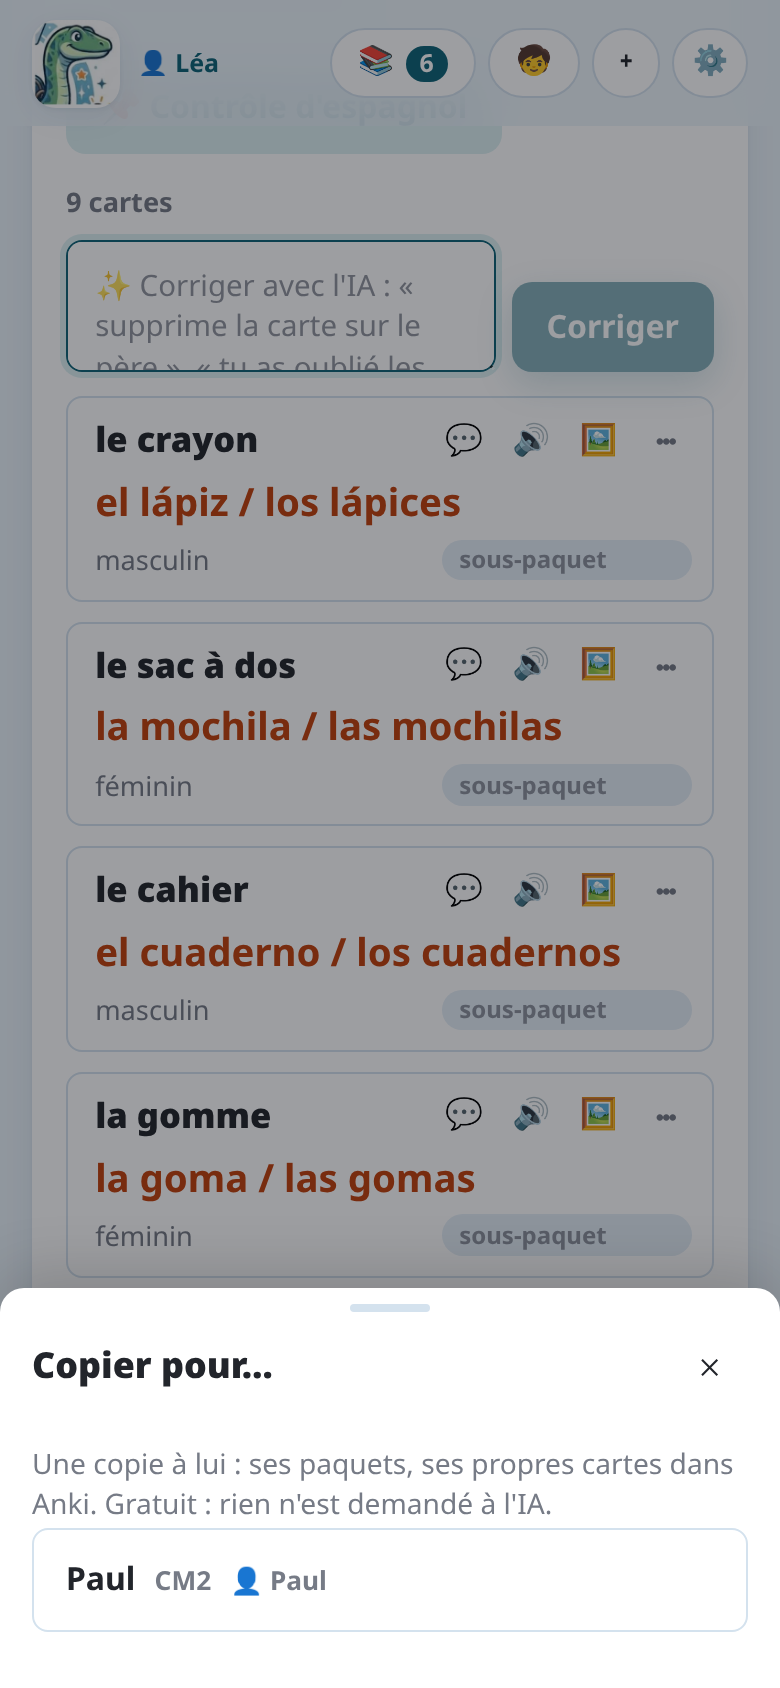
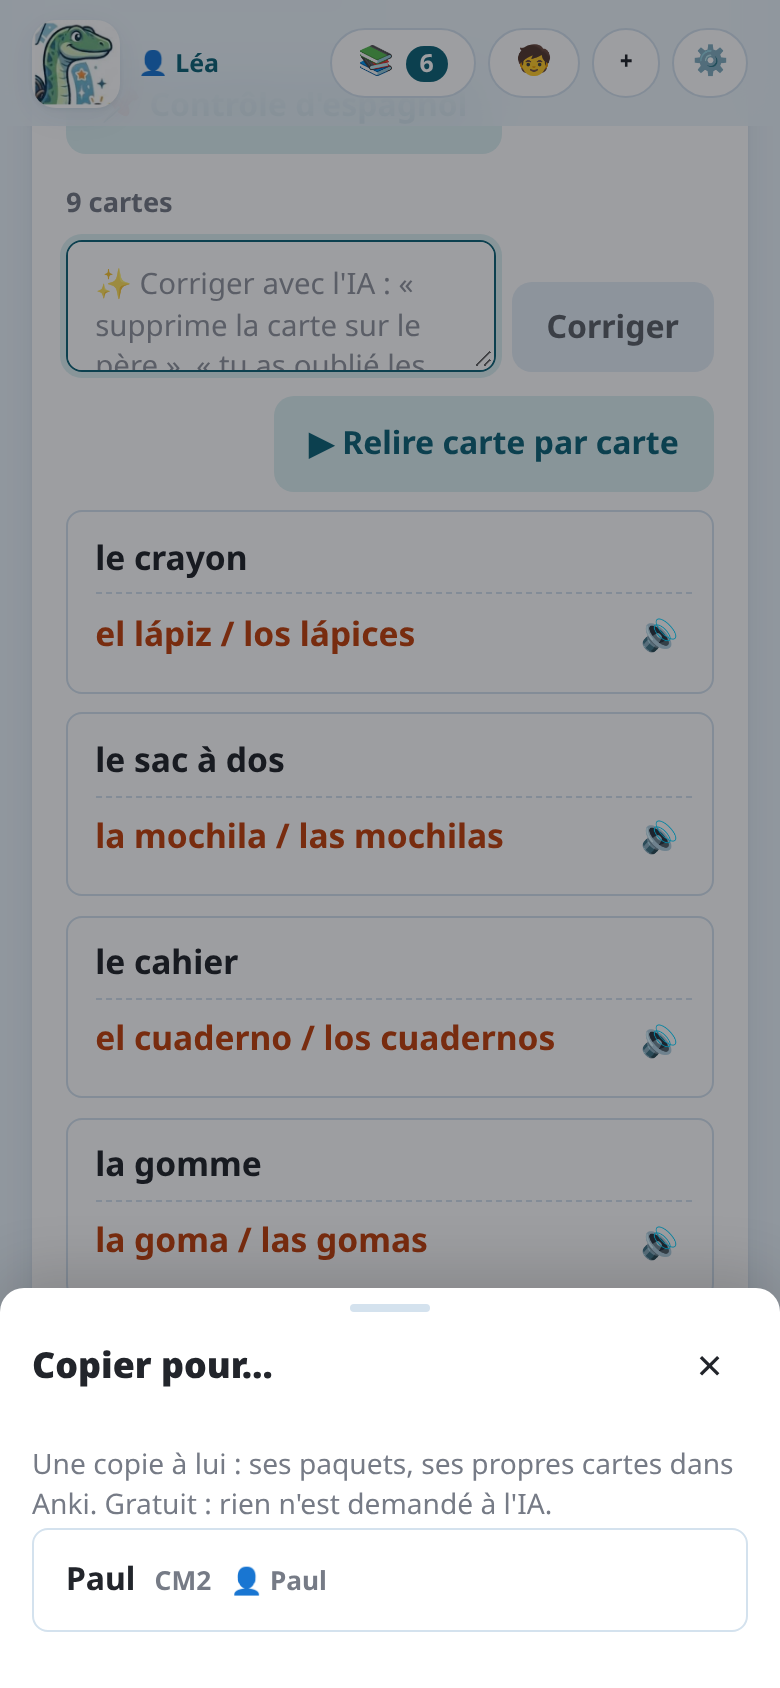
📝 French docs: the cards as they are reviewed now (#712–#746) (#748)
The French documentation, brought up to what the page does since #712.
The other languages follow once this one is read.

## Changes

- **`review.md`** (Relire les cartes), the most behind:
- « Le paquet et les cartes » split in **La liste** (compact, 🔊 alone, a
touch opens), **Une carte ouverte** (its deck at the top, #745; RECTO
then VERSO under a line, #736; 🔊 by the answer, #735; « ✨ Corriger avec
l'IA » with « Corriger » at the bottom, #720; a swipe from anywhere,
#719; the lesson's end « ✓ 12 cartes relues », #716; « + sous-paquet »,
#729) and **Ajouter une carte** (＋ after a card or at the end; written
by the AI: « Que doit demander cette carte ? » → « Écrire », no keyboard
on the phone, 🎤, #727).
- **Corriger avec l'IA**: « ↩ Annuler », « 🎯 Refaire avec soin », « ✓
Garder » (#731), its counts (#734); one card corrected from the card
open; dictation sent with « Corriger » directly (#732).
- **`card-types.mdx`**: « 🔍 Vérifier l'image » (#740), « 🔍 Vérifier la
figure » under the figure (#725).
- **`ai-services.md`**: « 🔍 Vérifier la figure », no longer « la loupe
».
- **`lessons.mdx`**, **`tests.mdx`**, **`several-children.mdx`**: « Mes
leçons » full height, one line of tools (search, « 👤 Jules » / « 👥 Tous
», 📤), the tests folded in « 📝 2 contrôles à préparer » (#723).
- **`android-app.md`**: 🎤 also for a new card, and « Corriger », «
Écrire » or « Générer » touched directly (#732).

Every label is the interface's own (`static/i18n/fr.json`).

## Checks
[…]

diff --git a/tools/docs_screenshots.py b/tools/docs_screenshots.py
@@ -158,10 +158,12 @@ BOOKLET = {
 
 
 def booklet_pdf(b, lang: str, path: Path) -> None:
+    """A revision booklet of more pages than a lesson has room for (30): the page picker opens
+    only then. Its topics over and over, numbered on."""
     title, topics = BOOKLET[lang]
     pages = "".join(
         f"<section><h1>{title}</h1><h2>{n}. {topic}</h2>" + "<p></p>" * 12 + "</section>"
-        for n, topic in enumerate(topics, start=1)
+        for n, topic in enumerate(itertools.islice(itertools.cycle(topics), 36), start=1)
     )
     page = b.new_page()
     page.set_content(
@@ -504,6 +506,11 @@ def shoot(lang: str) -> None:
             scroll_to(page, "section.review", 10)
             page.evaluate("window.scrollBy(0, 230)")
             shot(name)
+            if key == "geometry":  # a card open: its deck, Recto and Verso, its figure checked on demand
+                page.evaluate(f"{APP}.openCard({APP}.cards.find((c) => c.figure && c.picture) ?? {APP}.cards[0])")
+                time.sleep(0.8)
+                shot("card-open")
+                page.evaluate(f"{APP}.doneEditing()")
             if key == "pictures":  # a card's picture page (its picture touched in the card open)
                 page.evaluate(f"{APP}.openCard({APP}.cards[0]); {APP}.openPicture({APP}.cards[0])")
                 time.sleep(0.5)

diff --git a/docs/src/content/docs/fr/review.md b/docs/src/content/docs/fr/review.md
@@ -19,22 +19,58 @@ signalement est lu, et c'est le meilleur moyen de faire corriger Notosaurus. Voi
 
 - **Paquet** : le nom du paquet Anki. `::` crée des sous-paquets :
   `Espagnol::Unité 3 - À l'école`.
-- Chaque carte a un **recto** (la question) et un **verso** (la réponse). La liste est
-  compacte (recto, verso, une petite image) : touchez une carte pour l'ouvrir en plein écran (une
-  fenêtre sur l'ordinateur), comme dans Anki, formules et figures dessinées, avec le champ
-  **✨ Corriger avec l'IA** en bas. **▶ Relire carte par carte** ouvre la première. Glissez du doigt,
-  ou **‹ ›**, pour passer à la carte précédente ou suivante ; après la dernière, la fin de la leçon.
-  Touchez un texte pour le modifier ; **＋** ajoute une carte après celle-ci (laissée vide, elle
-  disparaît). **✕**, Échap ou le bouton retour du téléphone la referment, enregistrée. Touchez son
-  image pour la changer (une carte sans image : ⋯ → **🖼 Ajouter une image**).
+- Chaque carte a un **recto** (la question) et un **verso** (la réponse).
+
+### La liste
+
+La liste est compacte, comme un aperçu : le recto, le verso sous un trait pointillé, une petite
+image au-dessus de la question ou après la réponse, comme dans Anki, et seulement **🔊** pour
+entendre la carte. **Touchez une carte pour l'ouvrir** ; **▶ Relire carte par carte** ouvre la
+première.
+
+### Une carte ouverte
+
+La carte s'ouvre en plein écran (une fenêtre sur l'ordinateur), formules et figures dessinées,
+telle qu'Anki la montrera :
+
+- en haut, petit, **son paquet** dans Anki (« Jules › 5e › Anglais › … › Exercices ») et ses
+  boutons : **💬 Expliquer cette carte** et **Plus d'actions** (⋯) ;
+- **RECTO** : la question, avec son image quand elle va au recto ; un trait, puis **VERSO** :
+  la réponse et son **🔊**, l'image quand elle va au verso, puis l'info et les aides ;
+- tout en bas, le champ **✨ Corriger avec l'IA**, avec **Corriger** à côté (voir
+  [Corriger avec l'IA](#corriger-avec-lia)).
+
+![Une carte ouverte : son paquet en haut, le recto avec sa figure, le verso, et le champ de correction en bas](../../../assets/screenshots/fr/card-open.png)
+
+Touchez un texte pour le modifier. **Glissez du doigt** n'importe où sur la carte, ou touchez
+**‹ ›**, pour passer à la carte précédente ou suivante. Après la dernière vient la **fin de la
+leçon** : combien de cartes ont été relues (« ✓ 12 cartes relues »), **＋ Ajouter une carte**, et
+le bouton pour envoyer la leçon à Anki. **✕**, Échap ou le bouton retour du téléphone referment
+la carte, enregistrée.
+
+Touchez l'image d'une carte pour la changer : sa page s'ouvre en plein écran (voir
+[Images](../card-types/#images)). Une carte sans image : ⋯ → **🖼 Ajouter une image**.
+
 - **+ info** ajoute une note affichée sous la réponse : genre, pluriel, un exemple…
-- **sous-paquet** range la carte dans un sous-paquet de la leçon (« Vocabulaire »,
-  « Verbes »).
-- **🔊**, à côté du recto ou du verso, le fait entendre avec la voix de la leçon. Chaque carte dit
+- **+ sous-paquet** range la carte dans un sous-paquet de la leçon (« Vocabulaire »,
+  « Verbes ») ; une carte rangée affiche le nom de son sous-paquet.
+- **🔊**, à côté de la réponse, la fait entendre avec la voix de la leçon. Chaque carte dit
   quelles faces sont lues : la réponse d'une carte de vocabulaire, un texte à trous des deux côtés, en entier (au recto
   comme une dictée : on écrit dans les trous les mots entendus). Le menu ⋯ de la carte : **Lire le recto à voix haute**, **Ne plus lire
   le verso**…
-- **Plus d'actions** (⋯), en haut à droite de la carte, la supprime ; **＋ Ajouter une carte**, en bas, en ajoute une.
+- **Plus d'actions** (⋯) supprime aussi la carte.
+
+### Ajouter une carte
+
+**＋** en haut d'une carte ouverte en ajoute une juste après ; **＋ Ajouter une carte**, sous la
+liste ou à la fin de la leçon, en ajoute une à la fin. La nouvelle carte s'ouvre, vide ; laissée
+vide, elle disparaît en la refermant.
+
+Le plus simple est souvent de la faire **écrire par l'IA** : dans **Que doit demander cette
+carte ?**, en bas, dites ce qu'elle doit demander (« le passé composé d'aller », « la date de la
+prise de la Bastille »), puis touchez **Écrire**. Sur le téléphone, rien ne s'ouvre au clavier :
+touchez **🎤** pour le dicter, ou le champ pour le taper. Vous pouvez aussi remplir le recto et
+le verso vous-même.
 
 **📝 Consigne utilisée pour cette leçon**, au-dessus des cartes, rappelle ce qui a été
 demandé à l'IA.
@@ -77,10 +113,22 @@ au-dessus des cartes :
 ![Demander une correction à l'IA](../../../assets/screenshots/fr/correction.png)
 
 Touchez **Corriger**. L'IA revoit les photos et ne change que ce que vous avez demandé : les
-cartes changées sont marquées **modifiée**, les nouvelles **nouvelle**, et une phrase
-résume ce qu'elle a fait. **↩ Annuler** remet les cartes comme avant,
-tant que vous n'avez pas commencé à modifier une carte. Une carte corrigée seule (**✨ Corriger cette
-carte**) s'annule de même tant qu'elle reste ouverte ; une fois refermée, la correction est gardée.
+cartes changées sont marquées **modifiée**, les nouvelles **nouvelle**, et une phrase résume ce
+qu'elle a fait, avec le compte des cartes ajoutées, modifiées et supprimées. Dessous :
+
+- **↩ Annuler** remet les cartes comme avant ;
+- **🎯 Refaire avec soin**, après une correction rapide, la refait avec la réflexion du modèle ;
+- **✓ Garder** la garde : elle ne peut plus être annulée.
+
+La correction reste annulable jusqu'à ce que vous la gardiez ou commenciez à modifier une carte.
+
+**Une seule carte** se corrige depuis la carte ouverte, dans le champ **✨ Corriger avec l'IA**
+en bas (« la réponse c'est 1789 », « plus court »), puis **Corriger**. Les mêmes **↩ Annuler**,
+**🎯 Refaire avec soin** et **✓ Garder** s'affichent ; refermer la carte, ou passer à la
+suivante, garde aussi la correction.
+
+Dans l'application, **🎤** à côté du champ permet de dicter la correction. Pas besoin d'arrêter
+la dictée d'abord : touchez directement **Corriger**, ce que vous avez dit est écrit puis envoyé.
 
 Vous changez d'avis pendant que l'IA corrige (la leçon ou une seule carte) ? **Annuler** l'arrête
 tout de suite : les cartes restent comme elles étaient.

diff --git a/docs/src/content/docs/fr/android-app.md b/docs/src/content/docs/fr/android-app.md
@@ -78,9 +78,11 @@ ou **💻 Sur mon ordinateur**, avec le greffon Anki : voir
 L'essentiel de Notosaurus est le même que sur l'ordinateur. Ce que seule l'application a, ou n'a
 pas :
 
-- **🎤 Dicter** : dites une consigne ou une correction au lieu de la taper. Vos mots s'affichent
-  pendant que vous parlez, écrits par la reconnaissance vocale du téléphone ; **✨ Mettre au propre**
-  nettoie ensuite une consigne. L'application demande le micro la première fois.
+- **🎤 Dicter** : dites une consigne, une correction ou ce que doit demander une nouvelle carte
+  au lieu de le taper. Vos mots s'affichent pendant que vous parlez, écrits par la reconnaissance
+  vocale du téléphone. Touchez ■ pour arrêter, ou directement **Corriger**, **Écrire** ou
+  **Générer** : ce que vous avez dit est écrit puis envoyé. **✨ Mettre au propre** nettoie ensuite
+  une consigne. L'application demande le micro la première fois.
 - **⚑ Signaler**, sur une carte, dit à Notosaurus ce qui ne va pas : un mot mal lu, une réponse
   fausse, une figure de travers, une image inadaptée. Chaque signalement est lu et aide à corriger
   Notosaurus (voir [Signaler un problème](../review/#signaler-un-problème)).

diff --git a/docs/src/content/docs/fr/ai-services.md b/docs/src/content/docs/fr/ai-services.md
@@ -134,7 +134,7 @@ exact). Avec une clé Gemini gratuite, rien n'est réellement facturé. Par exem
 vocabulaire de ces captures a coûté environ 2 centimes de dollar à générer avec Claude Sonnet,
 et autant pour sa correction. Les images coûtent de moins d'un centime à quelques centimes
 chacune ; les figures, moins d'un centime (dessinées vite, quelques secondes chacune, pendant
-que vous relisez les cartes). Une figure vous semble douteuse : la loupe « 🔍 », sous la figure,
+que vous relisez les cartes). Une figure vous semble douteuse : **🔍 Vérifier la figure**, sous la figure,
 la fait regarder par l'IA ; si elle y voit une erreur, vous choisissez de
 la faire redessiner en lui indiquant l'erreur : vite d'abord (quelques secondes), puis, si elle
 est encore fausse, avec soin, avec la réflexion du modèle (jusqu'à une minute).
